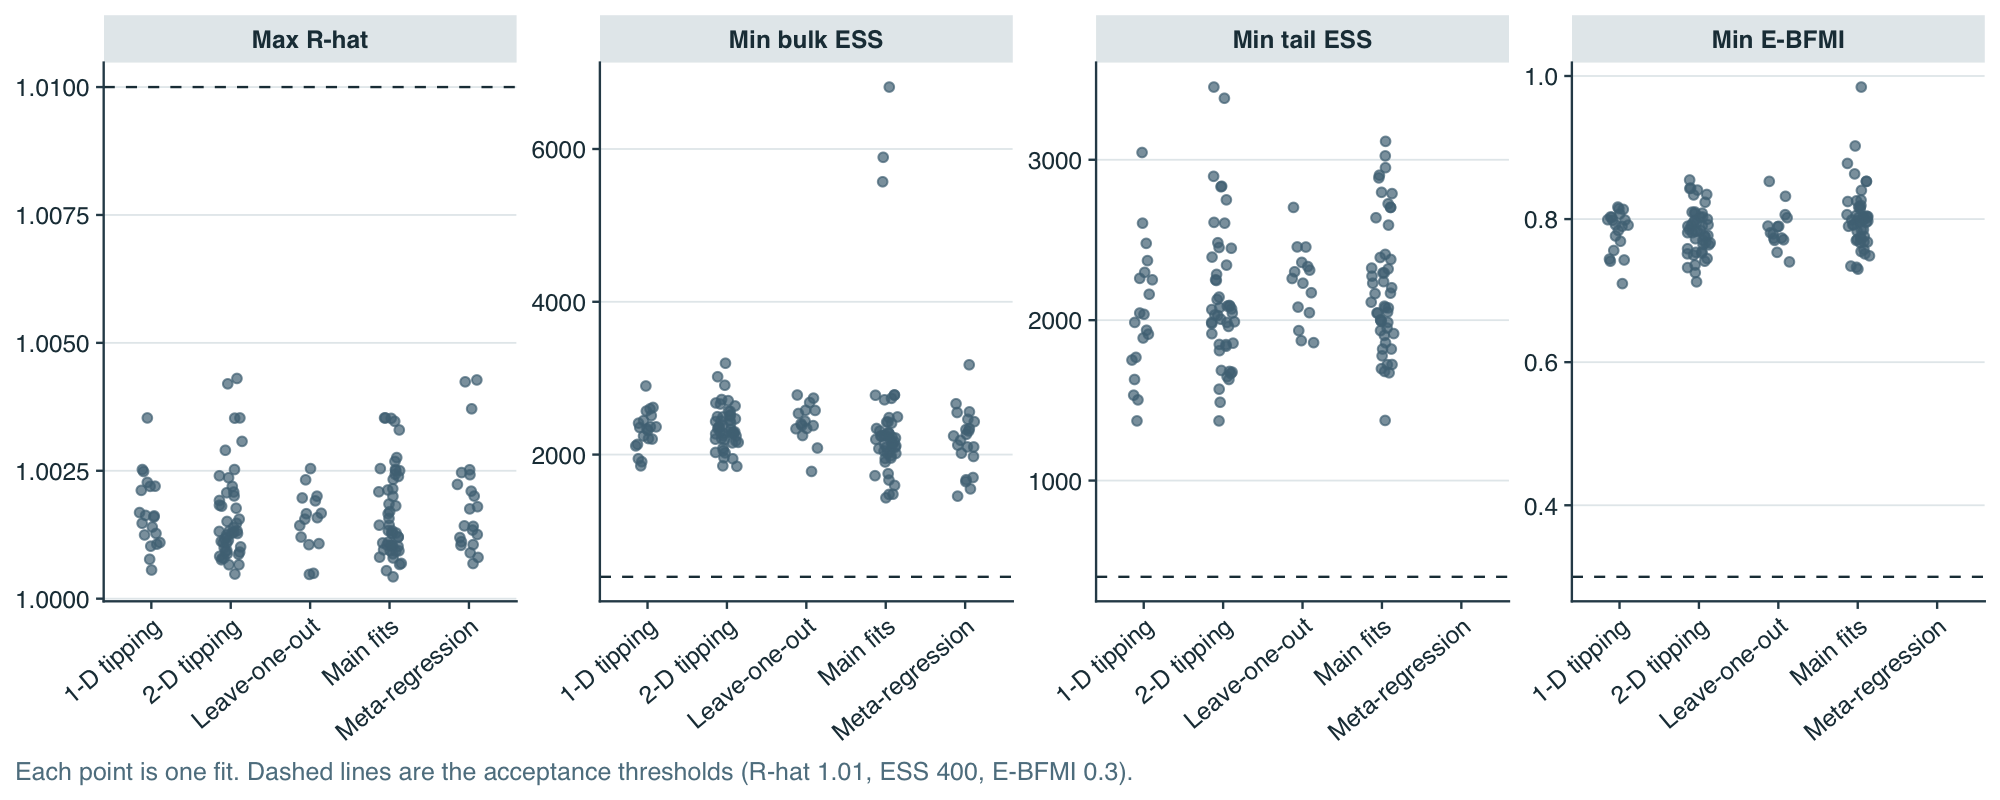
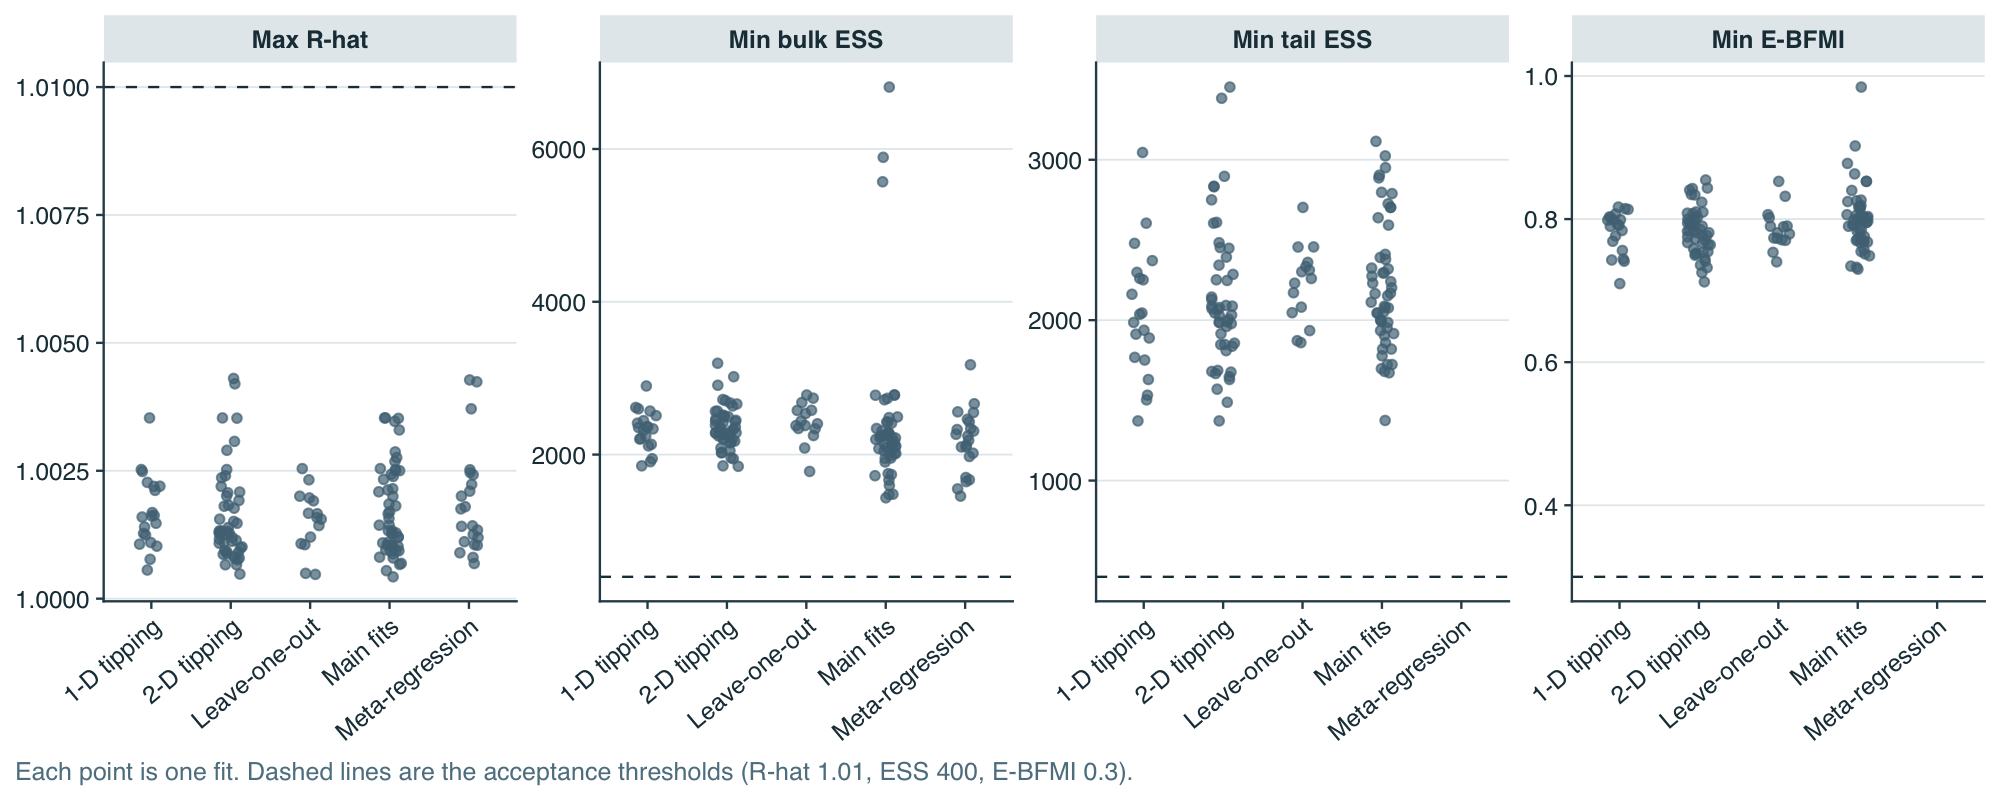
Settle Meijvis 30-day placebo count (11 vs 9) for the analysis; add S-src sensitivity fit
- Evidence from primary report, Wittermans 2022 Table 6 and Smit 2025 Table 1 documented in Status.md
- Primary-report count (11/153) kept as default per source hierarchy; IPD count (9/153) as S-src (F4 only)
- F4 OR 0.744 -> 0.751; no conclusion affected
- Re-rendered site

diff --git a/docs/sensitivity.html b/docs/sensitivity.html
@@ -460,6 +460,16 @@ Table&nbsp;1: Sensitivity fits. S-vi and S-viii are identical in F1 (both drop A
 <td style="text-align: left;">0.00</td>
 <td style="text-align: left;">0.77 (0.67–0.89)</td>
 </tr>
+<tr class="odd">
+<td style="text-align: left;">S-src Meijvis placebo 30-day deaths 9 (IPD sources), F4</td>
+<td style="text-align: left;">0.75 (0.55–0.97)</td>
+<td style="text-align: left;">0.98</td>
+<td style="text-align: left;">0.93</td>
+<td style="text-align: left;">0.81</td>
+<td style="text-align: left;">0.00</td>
+<td style="text-align: left;">0.29</td>
+<td style="text-align: left;">0.76 (0.33–1.60)</td>
+</tr>
 </tbody>
 </table>
 </div>
@@ -484,7 +494,7 @@ Table&nbsp;1: Sensitivity fits. S-vi and S-viii are identical in F1 (both drop A
 <li><strong>Baseline prior and IPD rows.</strong> A tighter baseline prior (0.67 (0.38–1.09)) and replacing four trials’ counts with the Smit 2025 IPD rows (0.67 (0.39–1.04)) leave the result essentially unchanged.</li>
 <li><strong>Likelihood.</strong> The contrast-based fit S-iii, which replaces the exact binomial likelihood with a log-OR and SE, gives 0.74 (0.45–1.16), a higher median than the primary fit. It is the only fit that does not use the exact binomial likelihood, so the gap indicates how much the normal approximation and the continuity correction for Confalonieri’s zero cell matter with trials this small.</li>
 <li><strong>Common-effect model.</strong> Fixing τ near zero (no between-trial heterogeneity) while keeping the exact likelihood gives 0.70 (0.56–0.88) in F1 with P(OR&lt;1) = 0.999. The median barely moves, but the interval narrows sharply and the probability of benefit rises to nearly 1, because the model treats the disagreement between trials as pure sampling noise. This is the assumption behind the much higher probabilities in Pitre’s Bayesian analysis (see the <a href="./benchmark.html">benchmark page</a>); we regard the random-effects result as the appropriate primary analysis because the trials differ in design, dose, agent and population.</li>
-<li><strong>Larger sets.</strong> Dropping the subgroup-derived trials from F4 gives 0.75 (0.50–1.01) and using IPD rows in F4 gives 0.74 (0.54–0.93), both close to the F4 result (0.74 (0.55–0.95)); the common-effect F4 fit gives 0.77 (0.67–0.89).</li>
+<li><strong>Larger sets.</strong> Dropping the subgroup-derived trials from F4 gives 0.75 (0.50–1.01) and using IPD rows in F4 gives 0.74 (0.54–0.93), both close to the F4 result (0.74 (0.55–0.95)); the common-effect F4 fit gives 0.77 (0.67–0.89), and using the IPD placebo count for Meijvis (S-src, below) gives 0.75 (0.55–0.97).</li>
 </ul>
 <p>Taken together, the direction of the estimate is stable (every F1 sensitivity fit has a median OR below 1), but the strength of the evidence varies: P(OR&lt;1) falls to 0.84 in the least favourable fit.</p>
 </section>
@@ -494,6 +504,7 @@ Table&nbsp;1: Sensitivity fits. S-vi and S-viii are identical in F1 (both drop A
 <li><strong>S-ii (low risk of bias only)</strong> has not been run: RoB 2 judgements are pending for all trials, so the code is a stub that stops until they are supplied.</li>
 <li><strong>S-iii</strong> converts each count trial to a log-OR and SE, adding 0.5 to all four cells of any trial with a zero cell (Confalonieri) and dropping double-zero trials. It is the only fit that uses a continuity correction; the forest plot on the <a href="./results.html">results page</a> also adds 0.5 to Confalonieri’s raw estimate, for display only.</li>
 <li><strong>S-CE</strong> is a common-effect sensitivity fit: the same model with the between-trial SD forced near zero through a very tight half-Normal(0, 0.001) prior, run in F1, F3 and F4.</li>
+<li><strong>S-src</strong> replaces the Meijvis placebo 30-day death count of 11 in the primary report (Table 2) by the 9 given by two analyses of the trial’s patient-level data (Wittermans 2022, Table 6, and Smit 2025, Table 1). Every other Meijvis outcome agrees across the three sources (dexamethasone arm 9 of 151 at 30 days, in-hospital deaths 8 and 8, ICU admissions 7 and 10), so the disagreement is confined to two post-discharge deaths in the placebo arm. The documents available here cannot say whether it reflects a different 30-day window, a corrected dataset or an error. The F4 pooled OR moves from 0.74 (0.55–0.95) to 0.75 (0.55–0.97) (P(OR&lt;1) 0.988 to 0.985), which does not affect any conclusion; the primary-report count stays in the main fits, following the source hierarchy.</li>
 <li><strong>S-iv</strong> varies the τ prior (half-Normal SD 0.25 and 1) and, in the agent model, the ω prior (SD 0.5).</li>
 <li><strong>S-v</strong> uses a tighter baseline prior, Normal(0, 2), instead of Normal(0, 10).</li>
 <li><strong>S-vi, S-viii and S-ix</strong> drop the subgroup-derived trial (APROCCHSS; in F4 also Tongyoo), the mineralocorticoid trial (APROCCHSS) and the single-bolus short-course trial (Marik).</li>

diff --git a/docs/convergence.html b/docs/convergence.html
@@ -262,7 +262,7 @@ pre > code.sourceCode > span > a:first-child::before { text-decoration: underlin
 <span id="cb3-14"><a href="#cb3-14" aria-hidden="true" tabindex="-1"></a>             mr<span class="sc">$</span>divergences[mr<span class="sc">$</span>status <span class="sc">==</span> <span class="st">"fitted"</span>])</span></code></pre></div><button title="Copy to Clipboard" class="code-copy-button"><i class="bi"></i></button></div>
 </details>
 </div>
-<p>This page shows whether the sampler behaved and whether the primary model (F1, seven trials, reference prior) describes the data. Every plot is produced from the saved draws of the primary fit, and the overview covers all 155 fits in the project. A fit is accepted only if R-hat is below 1.01, bulk and tail effective sample sizes (ESS) exceed 400, there are no divergent transitions and E-BFMI is adequate. The main sampler settings were 4 chains, 1000 warmup and 2000 post-warmup draws per chain, <code>adapt_delta</code> 0.99 and maximum tree depth 12.</p>
+<p>This page shows whether the sampler behaved and whether the primary model (F1, seven trials, reference prior) describes the data. Every plot is produced from the saved draws of the primary fit, and the overview covers all 156 fits in the project. A fit is accepted only if R-hat is below 1.01, bulk and tail effective sample sizes (ESS) exceed 400, there are no divergent transitions and E-BFMI is adequate. The main sampler settings were 4 chains, 1000 warmup and 2000 post-warmup draws per chain, <code>adapt_delta</code> 0.99 and maximum tree depth 12.</p>
 <section id="convergence-across-all-fits" class="level2">
 <h2 class="anchored" data-anchor-id="convergence-across-all-fits">Convergence across all fits</h2>
 <div class="cell">
@@ -283,7 +283,7 @@ Figure&nbsp;1: Sampler diagnostics for every fit, by group of analyses.
 </div>
 </div>
 </div>
-<p>Across all 155 fits the largest R-hat is 1.004 (threshold 1.01), the smallest bulk ESS is 1434 and the smallest tail ESS is 1372 (threshold 400), and the smallest E-BFMI is 0.71 (threshold 0.3). There were 0 divergent transitions in total. Meta-regressions report bulk ESS only, so they appear in the first two panels.</p>
+<p>Across all 156 fits the largest R-hat is 1.004 (threshold 1.01), the smallest bulk ESS is 1434 and the smallest tail ESS is 1372 (threshold 400), and the smallest E-BFMI is 0.71 (threshold 0.3). There were 0 divergent transitions in total. Meta-regressions report bulk ESS only, so they appear in the first two panels.</p>
 </section>
 <section id="primary-fit-f1-sampler-behaviour" class="level2">
 <h2 class="anchored" data-anchor-id="primary-fit-f1-sampler-behaviour">Primary fit (F1): sampler behaviour</h2>

diff --git a/docs/checks.html b/docs/checks.html
@@ -257,7 +257,7 @@ pre > code.sourceCode > span > a:first-child::before { text-decoration: underlin
 </div>
 <section id="sampler-diagnostics" class="level2">
 <h2 class="anchored" data-anchor-id="sampler-diagnostics">Sampler diagnostics</h2>
-<p>Plots of chain mixing, energy, prior against posterior and posterior-predictive fit are on the <a href="./convergence.html">convergence page</a>. Every fit in the project was run with four chains and accepted only if R-hat was below 1.01, bulk and tail effective sample sizes were above 400 and there were no divergent transitions. The table summarises the 155 fits by group; all pass. The lowest effective sample size among the main fits is 1375.</p>
+<p>Plots of chain mixing, energy, prior against posterior and posterior-predictive fit are on the <a href="./convergence.html">convergence page</a>. Every fit in the project was run with four chains and accepted only if R-hat was below 1.01, bulk and tail effective sample sizes were above 400 and there were no divergent transitions. The table summarises the 156 fits by group; all pass. The lowest effective sample size among the main fits is 1375.</p>
 <div class="cell">
 <details class="code-fold">
 <summary>Code</summary>
@@ -326,7 +326,7 @@ Table&nbsp;1: Acceptance gates: R-hat &lt; 1.01, bulk and tail ESS &gt; 400, zer
 </tr>
 <tr class="even">
 <td style="text-align: left;">Main fits (sets, ladders, sensitivity, D1/D2)</td>
-<td style="text-align: right;">50</td>
+<td style="text-align: right;">51</td>
 <td style="text-align: right;">1.004</td>
 <td style="text-align: right;">1375</td>
 <td style="text-align: right;">0</td>

diff --git a/docs/index.html b/docs/index.html
@@ -7,7 +7,7 @@
 <meta name="viewport" content="width=device-width, initial-scale=1.0, user-scalable=yes">
 
 <meta name="author" content="">
-<meta name="dcterms.date" content="2026-10-29">
+<meta name="dcterms.date" content="2026-10-30">
 
 <title>Bayesian meta-analysis of adjunctive corticosteroids in severe community-acquired pneumonia – Corticosteroids in sCAP</title>
 <style>
@@ -218,7 +218,7 @@ pre > code.sourceCode > span > a:first-child::before { text-decoration: underlin
     <div>
     <div class="quarto-title-meta-heading">Published</div>
     <div class="quarto-title-meta-contents">
-      <p class="date">29 October 2026</p>
+      <p class="date">30 October 2026</p>
     </div>
   </div>
   

diff --git a/Status.md b/Status.md
@@ -89,6 +89,7 @@ Facts only; decisions D1 to D4 were **not** taken and every number below uses th
 8. **Pitre 2025 supplement read (29 Oct).** Their Bayesian analysis is a common-effect normal model with a vague prior that drops zero-event trials, so its probabilities (P(OR<1) 0.995) are not comparable with our random-effects ones. A common-effect sensitivity fit (S-CE: same exact likelihood, between-trial SD forced near zero; F1, F3, F4) and a re-analysis of our count trials with their method were added to the pipeline: F1 common-effect OR 0.70 (0.56–0.88), P(OR<1) 0.999. See items 21 and 22 in §5 for the trial-overlap findings. Pitre's agent subgroups (hydrocortisone RR 0.66, methylprednisolone 0.88) and pneumonia stratum (RR 0.75, 0.59–0.95) are consistent with our agent and F4 results.
 9. **Convergence page added to the web report**: trace, rank, energy, funnel and autocorrelation plots, prior against posterior, posterior-predictive and recovery checks; all fits pass the acceptance rules with no divergences.
 10. **Items 19 and 22 resolved (29 Oct)** against the primary reports and the Smit 2025 trial table: all of our counts are confirmed (Confalonieri 7/23, ESCAPe 47/286 and 34/291, Snijders and Santeon identical in Smit); Pitre's different Confalonieri and ESCAPe denominators and the Nafae 19/20 ambiguity do not change any result.
+11. **Meijvis 2011 30-day placebo deaths (11 vs 9) settled for the analysis (30 Oct).** Evidence: the primary report (Table 2) gives 11/153 placebo and 9/151 dexamethasone; Wittermans 2022 Table 6 (Ovidius arms by class) gives 9/153 and 9/151 (4+5 and 7+2) and agrees with the primary report on every other outcome (in-hospital 8 and 8, ICU 7 and 10); Smit 2025 Table 1 gives 9/153 and 9/151. The discrepancy is therefore two post-discharge deaths in the placebo arm, and the documents in hand cannot show whether it is a different 30-day window, a corrected dataset or a typo (Briel 2018 IPD is not in the folder). Decision: the rank-1 primary-report count (11/153) stays in all main fits under the source hierarchy (decision C) and `analysis_mortality.csv` is unchanged; the IPD count is shown as sensitivity fit S-src (F4 only, the trial is in no other set): OR 0.744 to 0.751, P(OR<1) 0.988 to 0.985, so no conclusion depends on it. Contacting the Ovidius authors is optional and not needed for the analysis. The open `issues` row in the extraction database (R0786) is not edited here; if the lead prefers 9 as the default, change the rank-1 value through the database changelog and re-export.
 
 ---
 
@@ -128,7 +129,7 @@ Zotero: import `records_to_retrieve_fulltext.ris`; library housekeeping still pe
 | 4 | PRESS librarian review (post hoc) | Student | Search documentation |
 | 5 | Public repository; reword PROSPERO field 5 (screening + first extraction pass have begun); add sensitivity fit (ix) short-course < 48 h and the SONIA agent-mix rule to the registered protocol before submission | Student / Russ | Registration |
 | 6 | REMAP-CAP adjusted log-OR + SE (request; interim ≈0.36 from CrI) | Russ | Analysis |
-| 7 | Briel 2018 group: 30-day severe-subgroup counts for Snijders, Meijvis, STEP (STEP has none at 30 d in any report; Lancet appendix first) **and the Meijvis 30-day placebo count (11 vs 9) — check Briel before writing to the Ovidius authors** | Student | Extraction |
+| 7 | Briel 2018 group: 30-day severe-subgroup counts for Snijders, Meijvis, STEP (STEP has none at 30 d in any report; Lancet appendix first) **(the Meijvis 30-day placebo count 11 vs 9 is settled for the analysis, see log entry 11 of 30 Oct)** | Student | Extraction |
 | 8 | APROCCHSS SAP (CAP subgroup a priori exploratory, **not** stratified — confirm); obtain Annane 2018 NEJM | Student | RoB domain 5 |
 | 9 | Obtain missing full texts (table above) incl. correct STOPPE PDF; supplements: CAPE COD, STEP appendix, Snijders E3, Santeon E-tables, SONIA S13, ESCAPe, DEXA-ARDS appendix, Smit 2025 appendix | Student | Extraction |
 | 10 | Registry searches; PI contacts | Student | Completeness |
